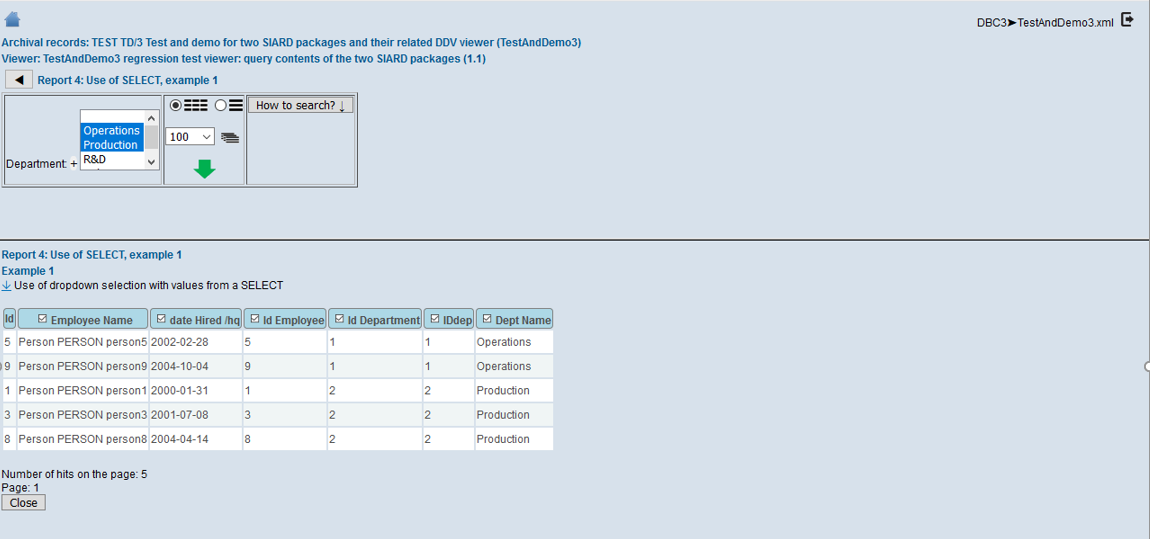
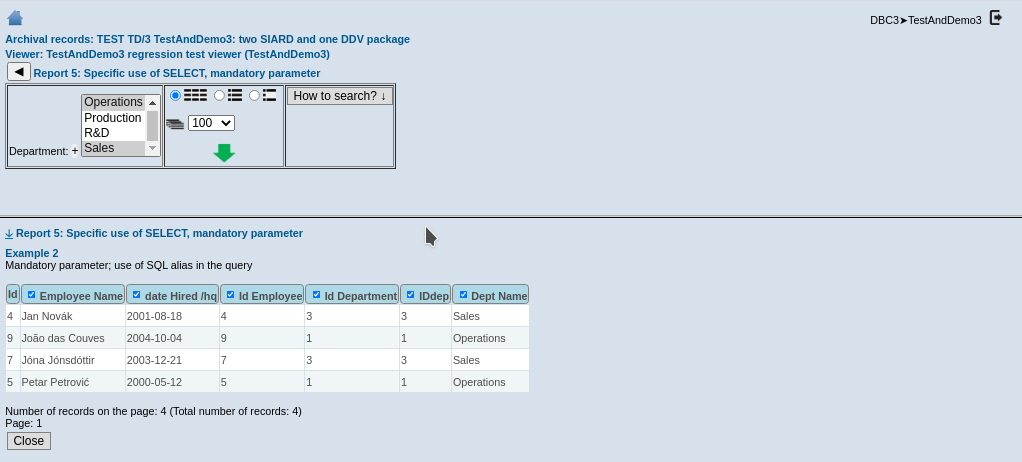
toggle multi combo

diff --git a/www/utils/dbUtilsInputFnc.php b/www/utils/dbUtilsInputFnc.php
@@ -49,6 +49,7 @@
 	}
 //-->
 </script>
+
 <?php
 
 //print a single-line text box
@@ -142,7 +143,6 @@ function input_combotext_db_multi($fieldname, $paramname, $paramselect, $default
 	<label for="<?php echo "$fieldname"; ?>">
 		<abbr title="<?php echo $MSGSW29_MULTIPLESELECT; ?>"
 			><button 
-			id="<?php echo "$fieldname"; ?>"
 			type="button" 
 			style="padding: 0; border: none;border-radius: 40%;" 
 			onclick="ToggleCombo('<?php echo "$fieldname"; ?>',this)">+
@@ -161,27 +161,6 @@ function input_combotext_db_multi($fieldname, $paramname, $paramselect, $default
 <?php
 }
 
-?>
-<script>
-function ToggleCombo(value1,value2, object){  
-  var x = document.getElementById(value1);
-  var y = document.getElementById(value1+"M");
-  
-  if (x.style.display === "none") {
-    x.style.display = "inline-block";
-    y.style.display = "none";
-    var z = document.getElementById(value1+"M" + "sel");
-    z.value = "";
-  } else {
-    x.style.display = "none";
-    var z = document.getElementById(value1 + "sel");
-    z.value = "";
-    y.style.display = "inline-block";
-  }
-
-} 
-</script>
-<?php
 
 //creates select form
 function input_combotext_db($fieldname, $paramname, $paramselect, $default, $allowEmptyString, $writable = true, $multiple="") {
@@ -271,3 +250,23 @@ function showInfotipInline($text, $id) {
 	$out .= "<span id=\"" . $msgid . "\" class=\"box\">" . $text . "</span>" . PHP_EOL;
 	return($out);
 }
+
+?>
+<script type="text/javascript" >
+function ToggleCombo(value1,value2, object){  
+  var x = document.getElementById(value1);
+  var y = document.getElementById(value1+"M");
+  
+  if (x.style.display === "none") {
+    x.style.display = "inline-block";
+    y.style.display = "none";
+    document.getElementById(value1+"M" + "sel").value = "";
+  } else {
+    x.style.display = "none";
+    y.style.display = "inline-block";
+    document.getElementById(value1 + "sel").value = "";
+  }
+
+} 
+</script>
+<?
